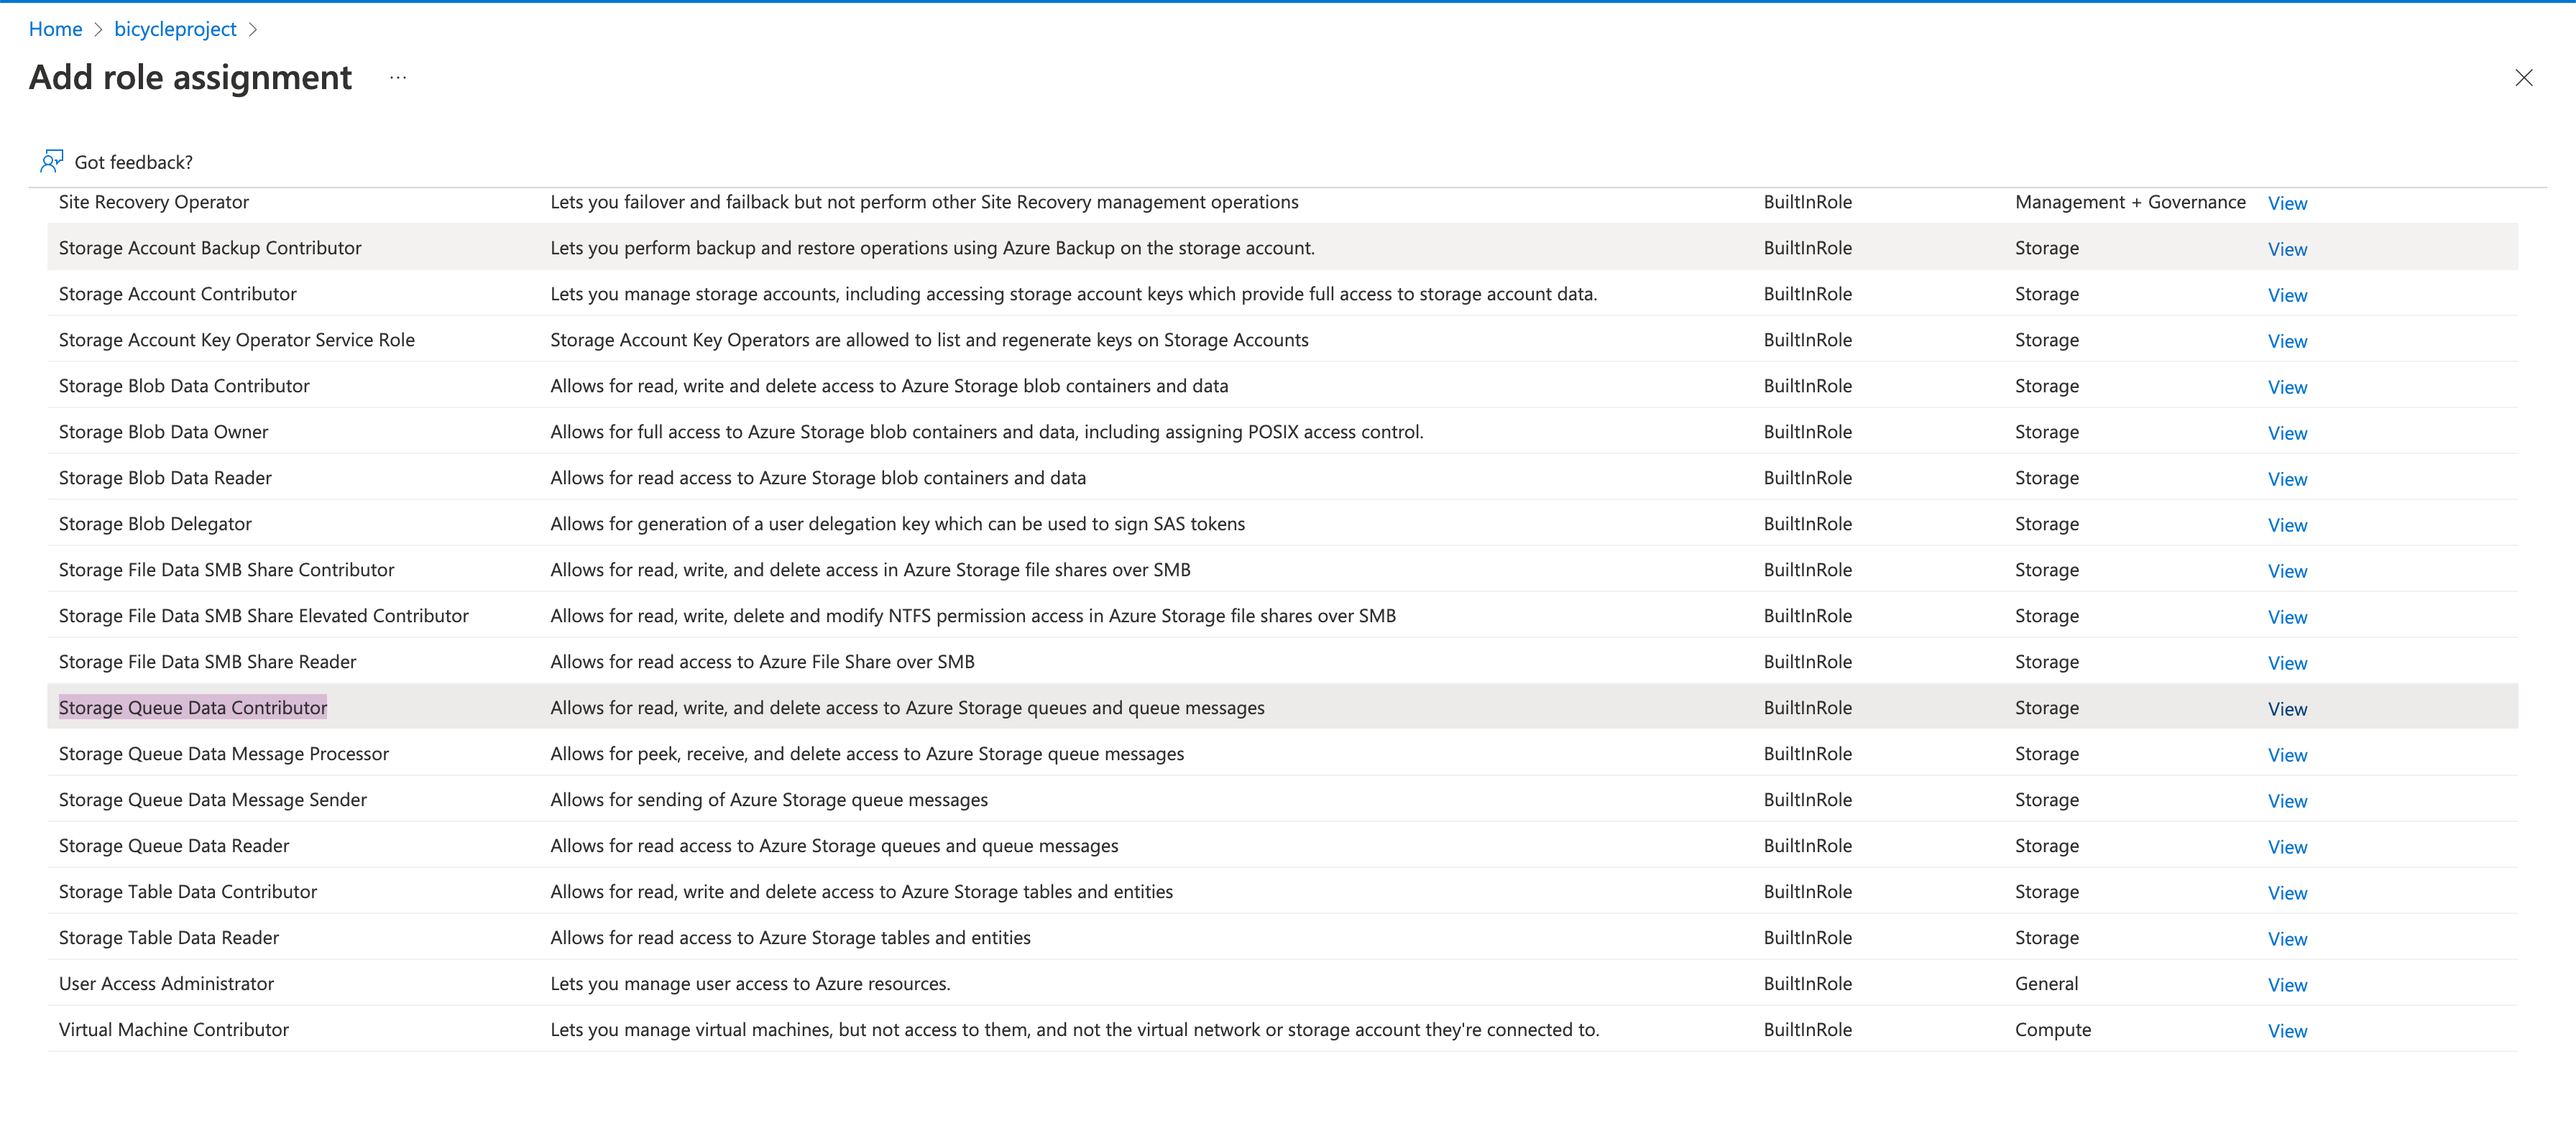
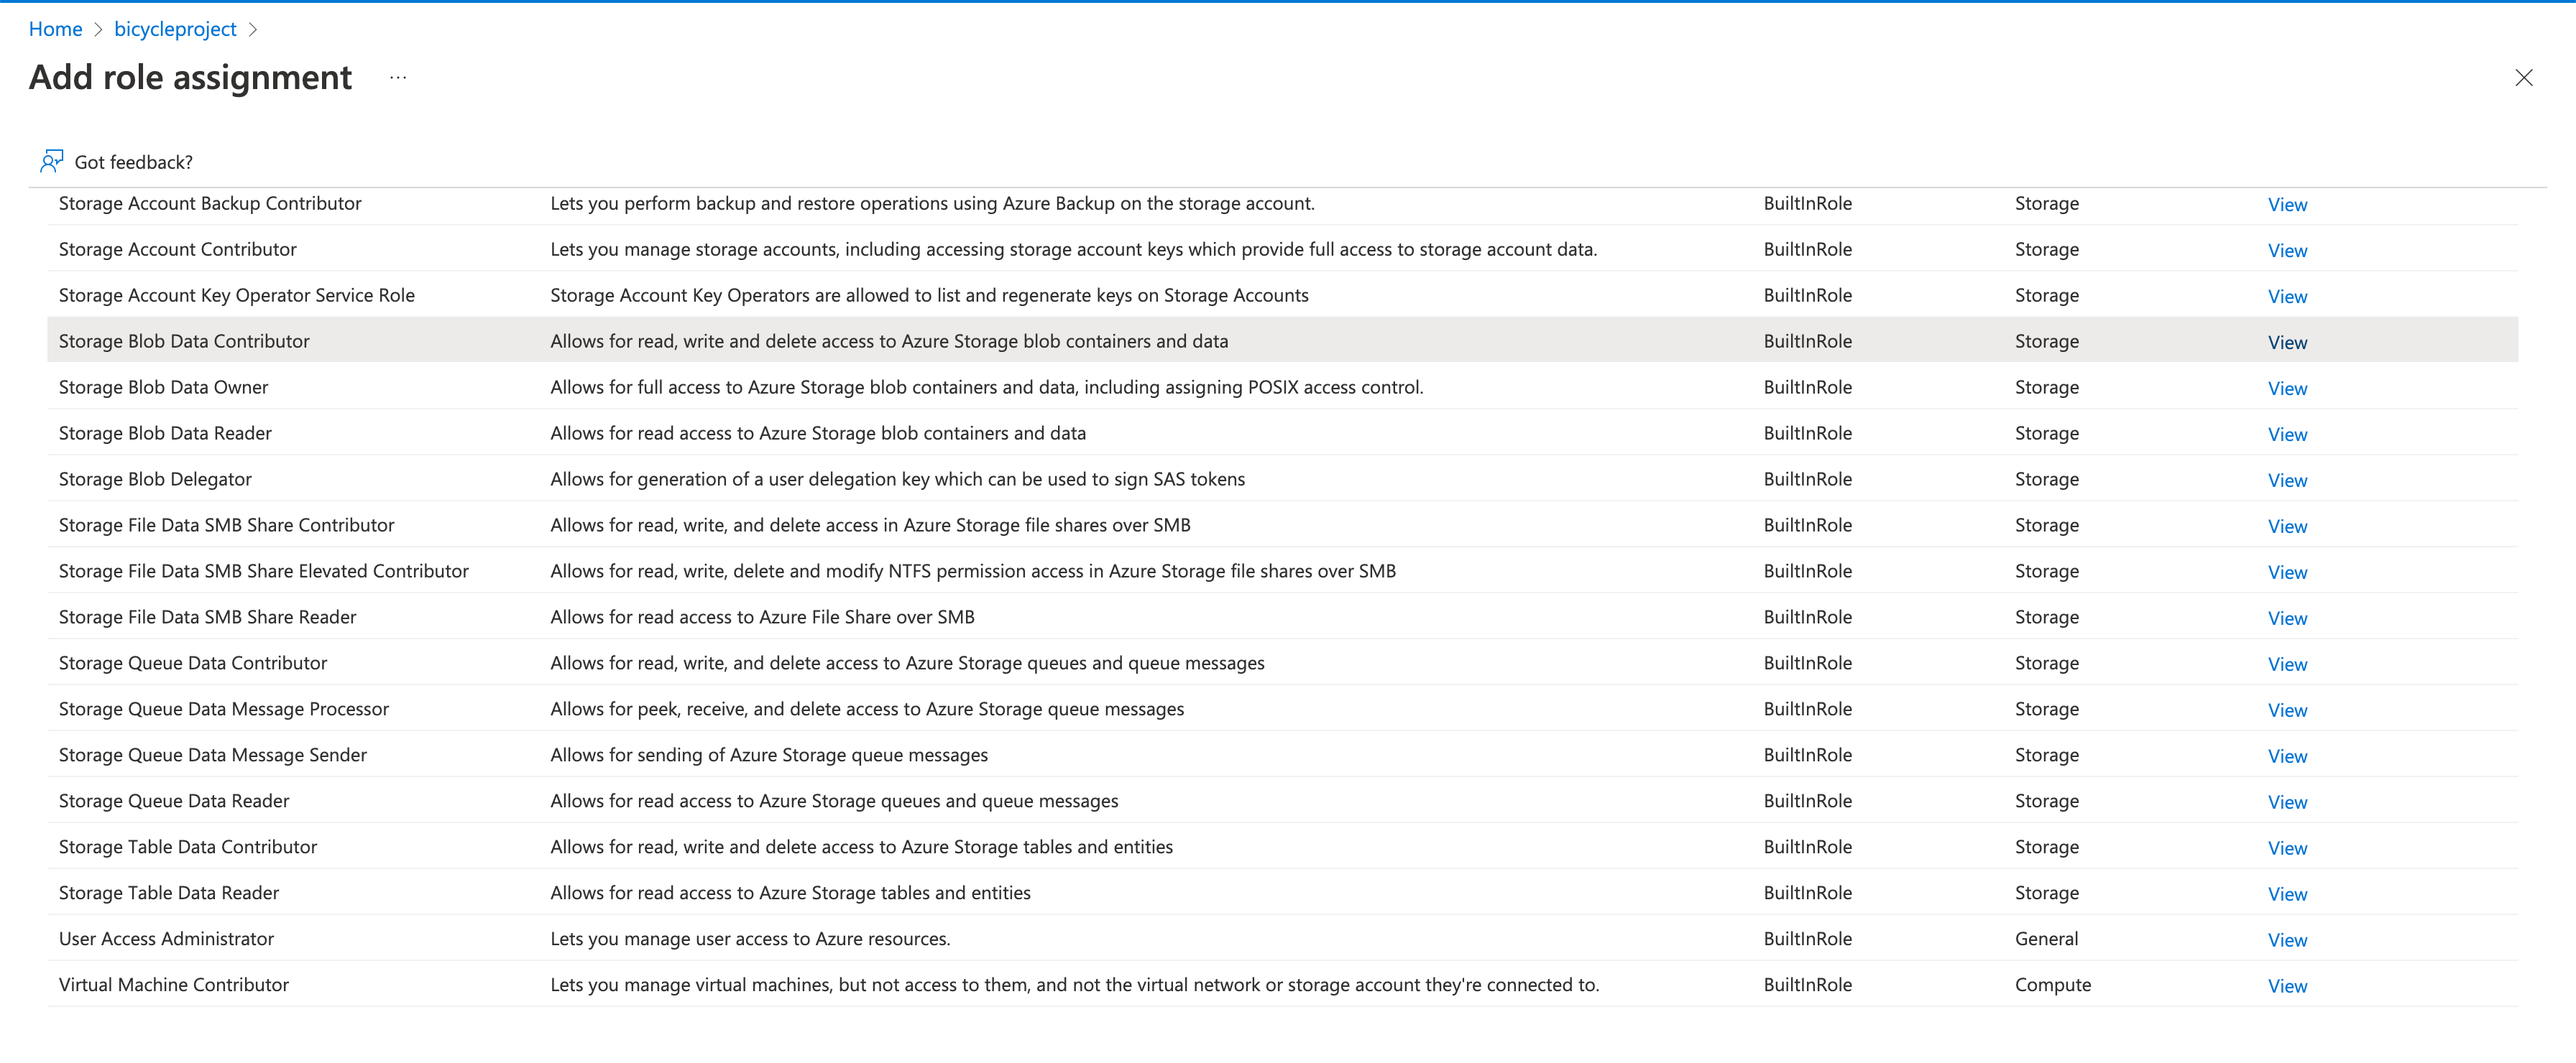
updated text and images

diff --git a/content/blog/2022-06-22-azure-remotes-in-dvc.md b/content/blog/2022-06-22-azure-remotes-in-dvc.md
@@ -63,19 +63,21 @@ leave all the default settings in place and click `Review + create`.
 ![storage account details](/uploads/images/2022-06-22/storage_account_details.png)
 
 Azure will run validation on the account and then you'll be able to click
-`Create` and it will generate the storage account. You'll get redirected to a
-page like this and you should click the `Go to resource` button.
+`Create` and it will generate the storage account.
 
 ![created storage account](/uploads/images/2022-06-22/created_storage_account.png)
 
-Now you should see all of the details for your storage account. In the left
-sidebar, click on `Containers` under the `Data storage` section.
+You'll get redirected to a new page and you should click the `Go to resource`
+button. Now you should see all of the details for your storage account. In the
+left sidebar, got to on `Data storage` > `Containers`.
 
 ![bicycle project account](/uploads/images/2022-06-22/bicycle_project_account.png)
 
 Then click the `+ Container` button at the top of the new page and you'll see a
 right sidebar open. In the name field, type `bikedata` and then click `Create`.
 Now we have everything set up for the blob storage to work.
+
+![new container for bike data](/uploads/images/2022-06-22/bikedata_container.png)
 
 ### Set the right roles for your Azure account
 
@@ -92,7 +94,7 @@ with all of the roles.
 
 ![update roles for storage account](/uploads/images/2022-06-22/storage_account_role.png)
 
-Select the `Storage Queue Data Contributor` role and click `Next`
+Select the `Storage Blob Data Contributor` role and click `Next`
 
 ![update roles for storage account](/uploads/images/2022-06-22/storage_account_member.png)
 
@@ -174,8 +176,8 @@ credentials.
 
 You can check out more details on this command
 [here in the Azure docs](https://docs.microsoft.com/en-us/cli/azure/authenticate-azure-cli).
-If you want to
-[use a different authentication method](https://dvc.org/doc/command-reference/remote/modify#microsoft-azure-blob-storage).
+If you want to use a different authentication method with DVC, check out
+[our docs here](https://dvc.org/doc/command-reference/remote/modify#microsoft-azure-blob-storage).
 
 You will also need to manually define the storage account name with the
 following command:
